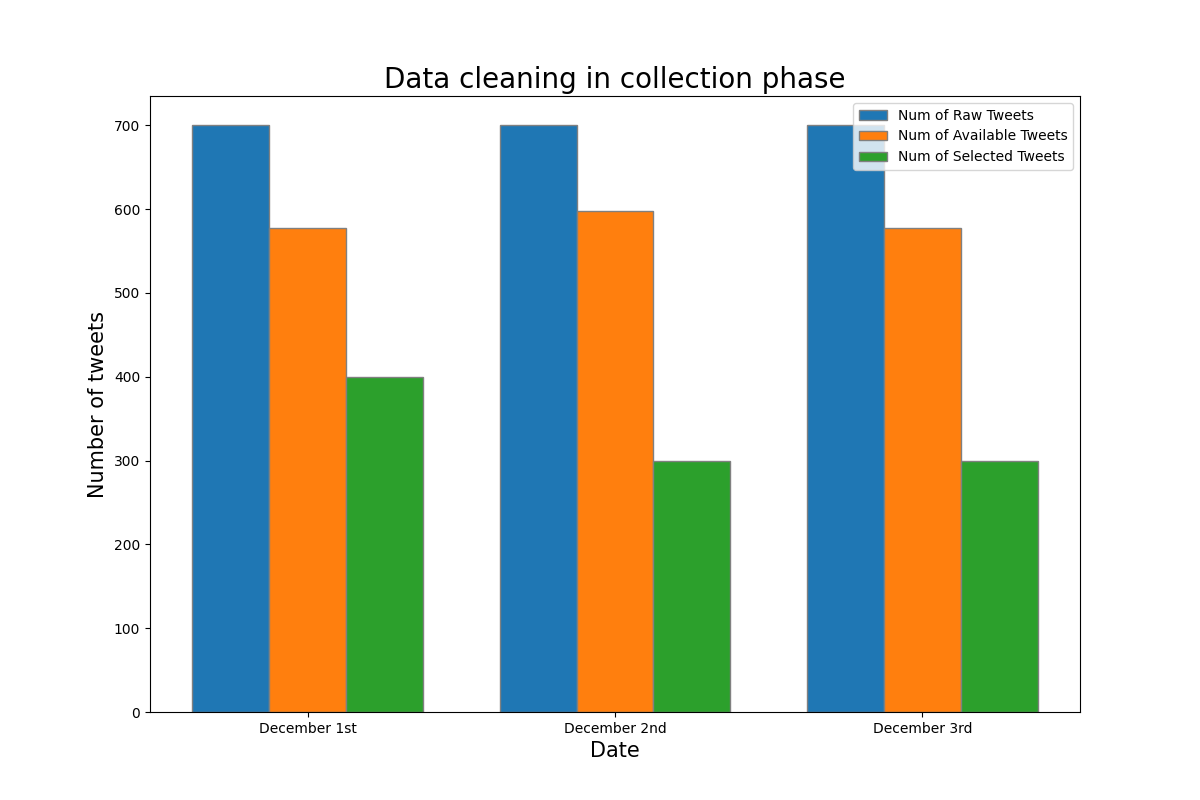
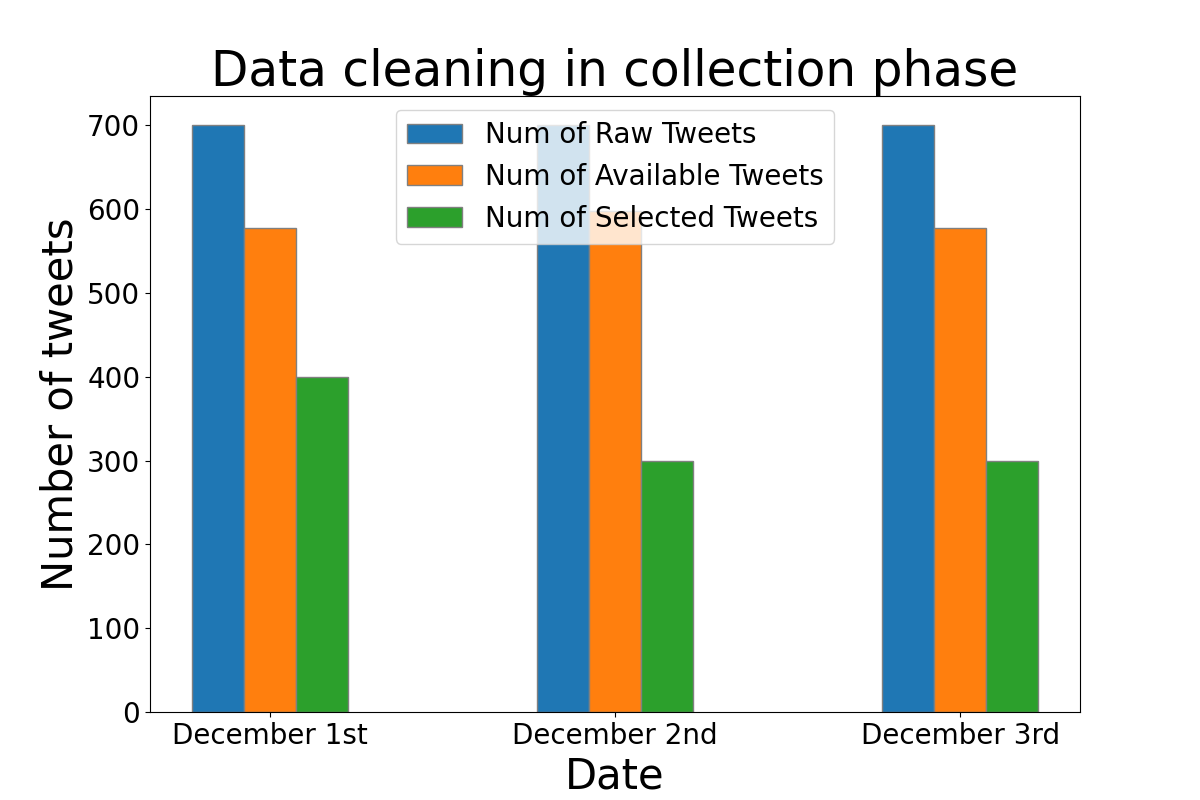
Fixed a bug

diff --git a/src/collect.py b/src/collect.py
@@ -4,7 +4,7 @@ import numpy as np
 import matplotlib.pyplot as plt
 
 # set width of bar
-barWidth = 0.25
+barWidth = 0.15
 fig = plt.subplots(figsize=(12, 8))
 
 # set height of bar
@@ -26,11 +26,12 @@ plt.bar(br3, selected, width=barWidth,
         edgecolor='grey', label='Num of Selected Tweets')
 
 # Adding Xticks
-plt.xlabel('Date', fontsize=15)
-plt.ylabel('Number of tweets', fontsize=15)
+plt.xlabel('Date', fontsize=30)
+plt.ylabel('Number of tweets', fontsize=30)
 plt.xticks([r + barWidth for r in range(len(raw))],
-           ['December 1st', 'December 2nd', 'December 3rd'])
-plt.title("Data cleaning in collection phase", fontsize=20)
-plt.legend()
+           ['December 1st', 'December 2nd', 'December 3rd'], fontsize=20)
+plt.title("Data cleaning in collection phase", fontsize=35)
+plt.yticks(fontsize=20)
+plt.legend(prop={"size":20})
 plt.savefig('../result/figures/data_collection.png')
 plt.show()
